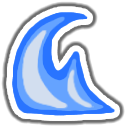
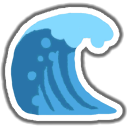
Adjust wording and art
Merchant doesn't have the Path of Exile-like +Number notation for the final discount anymore

Ice Cream's Power now has "Sticker" in its name

Flow is now recolored Corrosive Wave instead of Flame Barrier (I forgor Corrosive Wave had a wave icon)

Flex's Power now uses the Sticker art

diff --git a/AjamaStickersCode/Powers/FlexStickerPower.cs b/AjamaStickersCode/Powers/FlexStickerPower.cs
@@ -16,6 +16,6 @@ public class FlexStickerPower : CustomTemporaryPowerModelWrapper<Flex, StrengthP
     
     public override LocString Title => new ("powers", $"{Id.Entry}.title");
     
-    public override string CustomPackedIconPath => "res://images/atlases/power_atlas.sprites/flex_potion_power.tres";
-    public override string CustomBigIconPath => ImageHelper.GetImagePath("powers/flex_potion_power.png");
+    public override string CustomPackedIconPath => $"{Id.Entry.RemovePrefix().ToLowerInvariant()}.png".PowerImagePath();
+    public override string CustomBigIconPath => $"{Id.Entry.RemovePrefix().ToLowerInvariant()}.png".BigPowerImagePath();
 }
